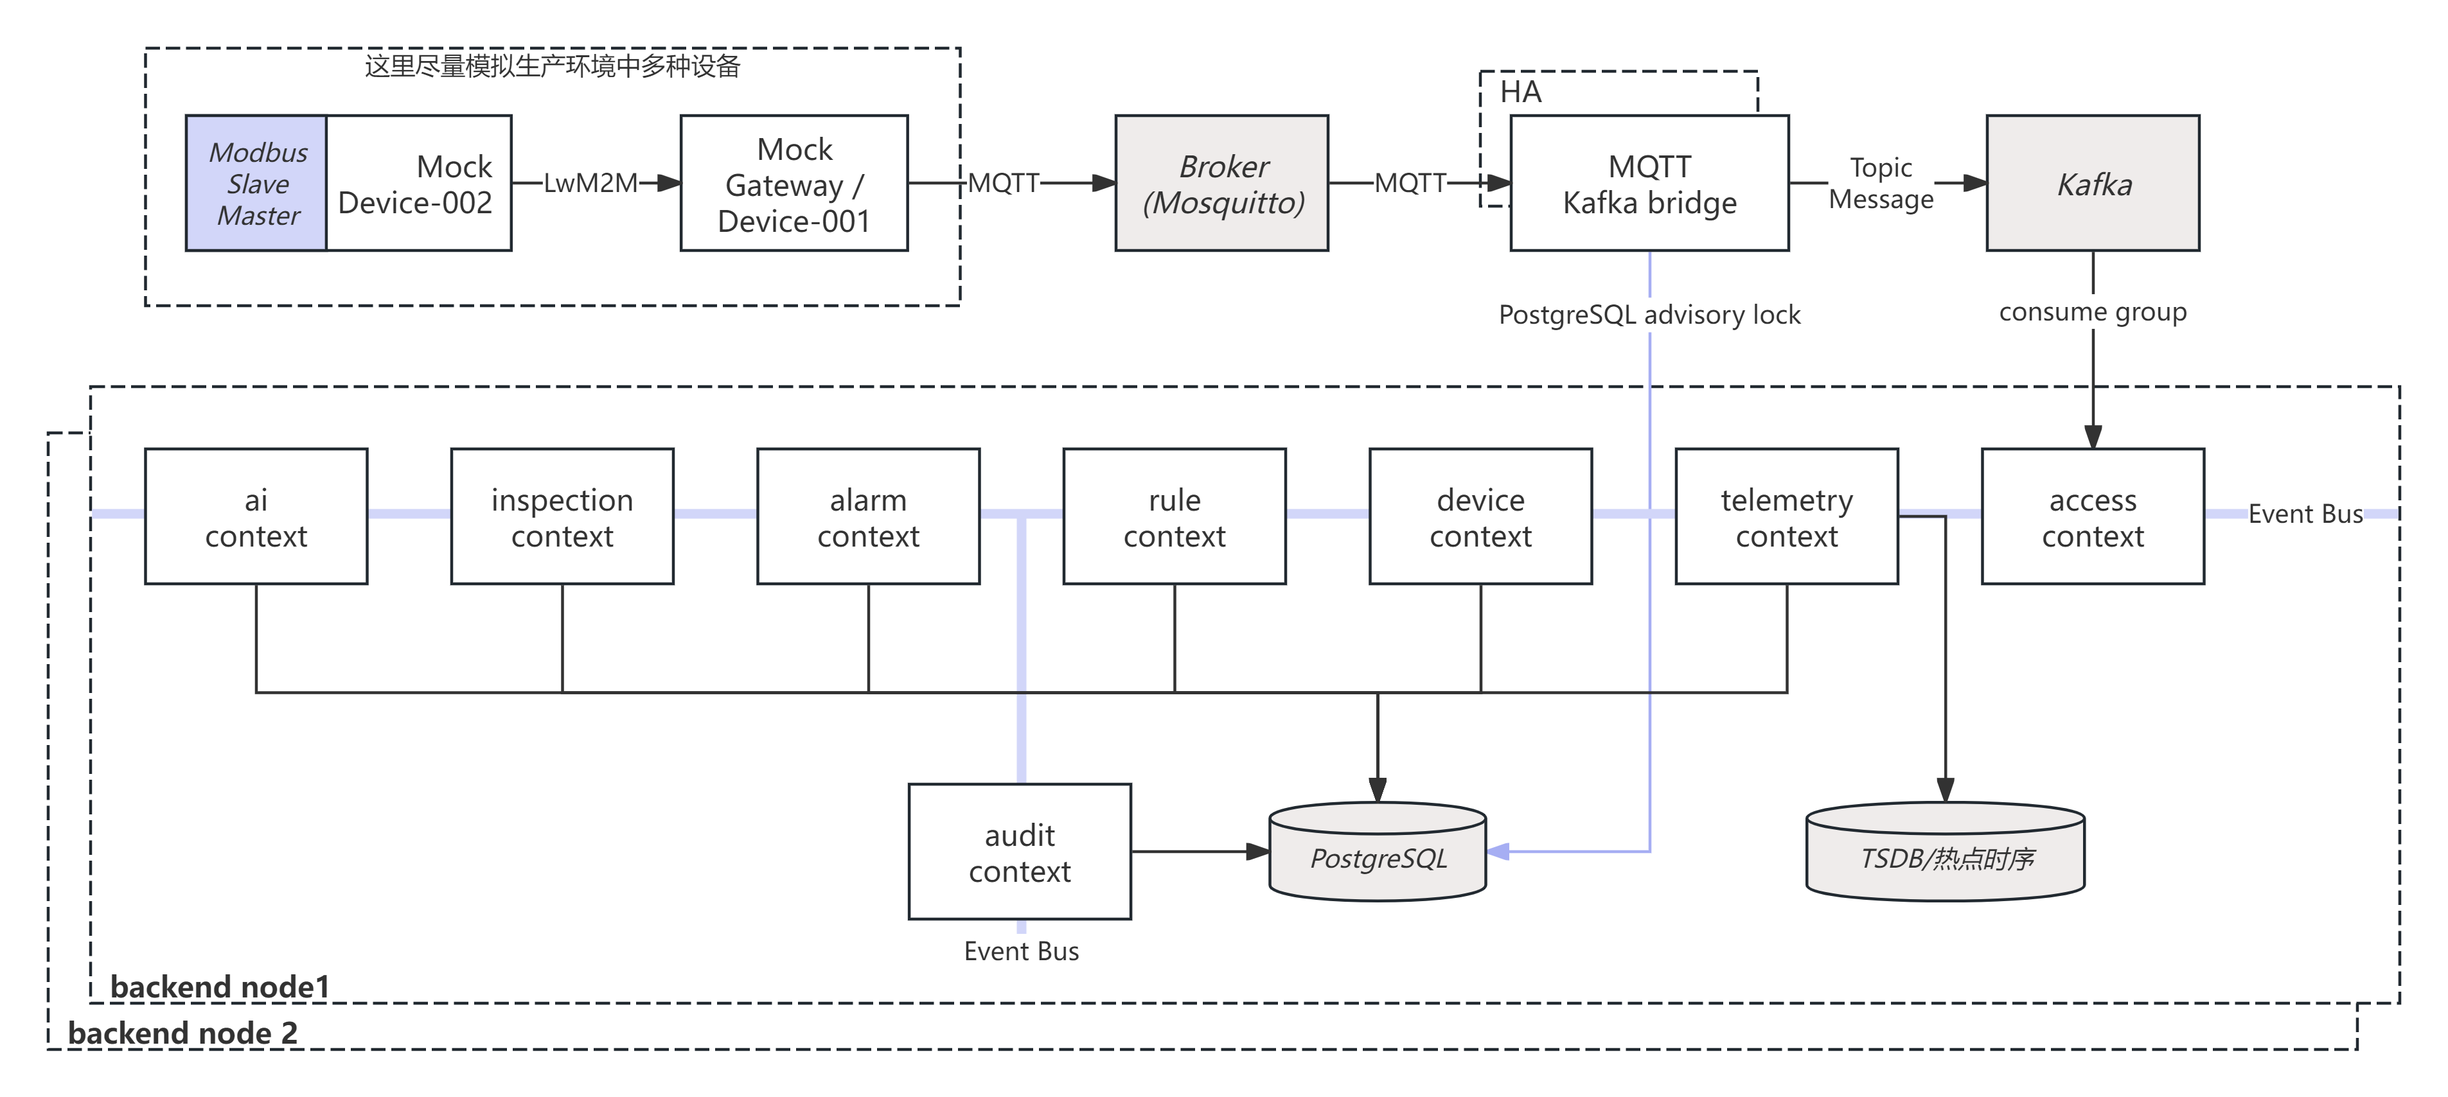
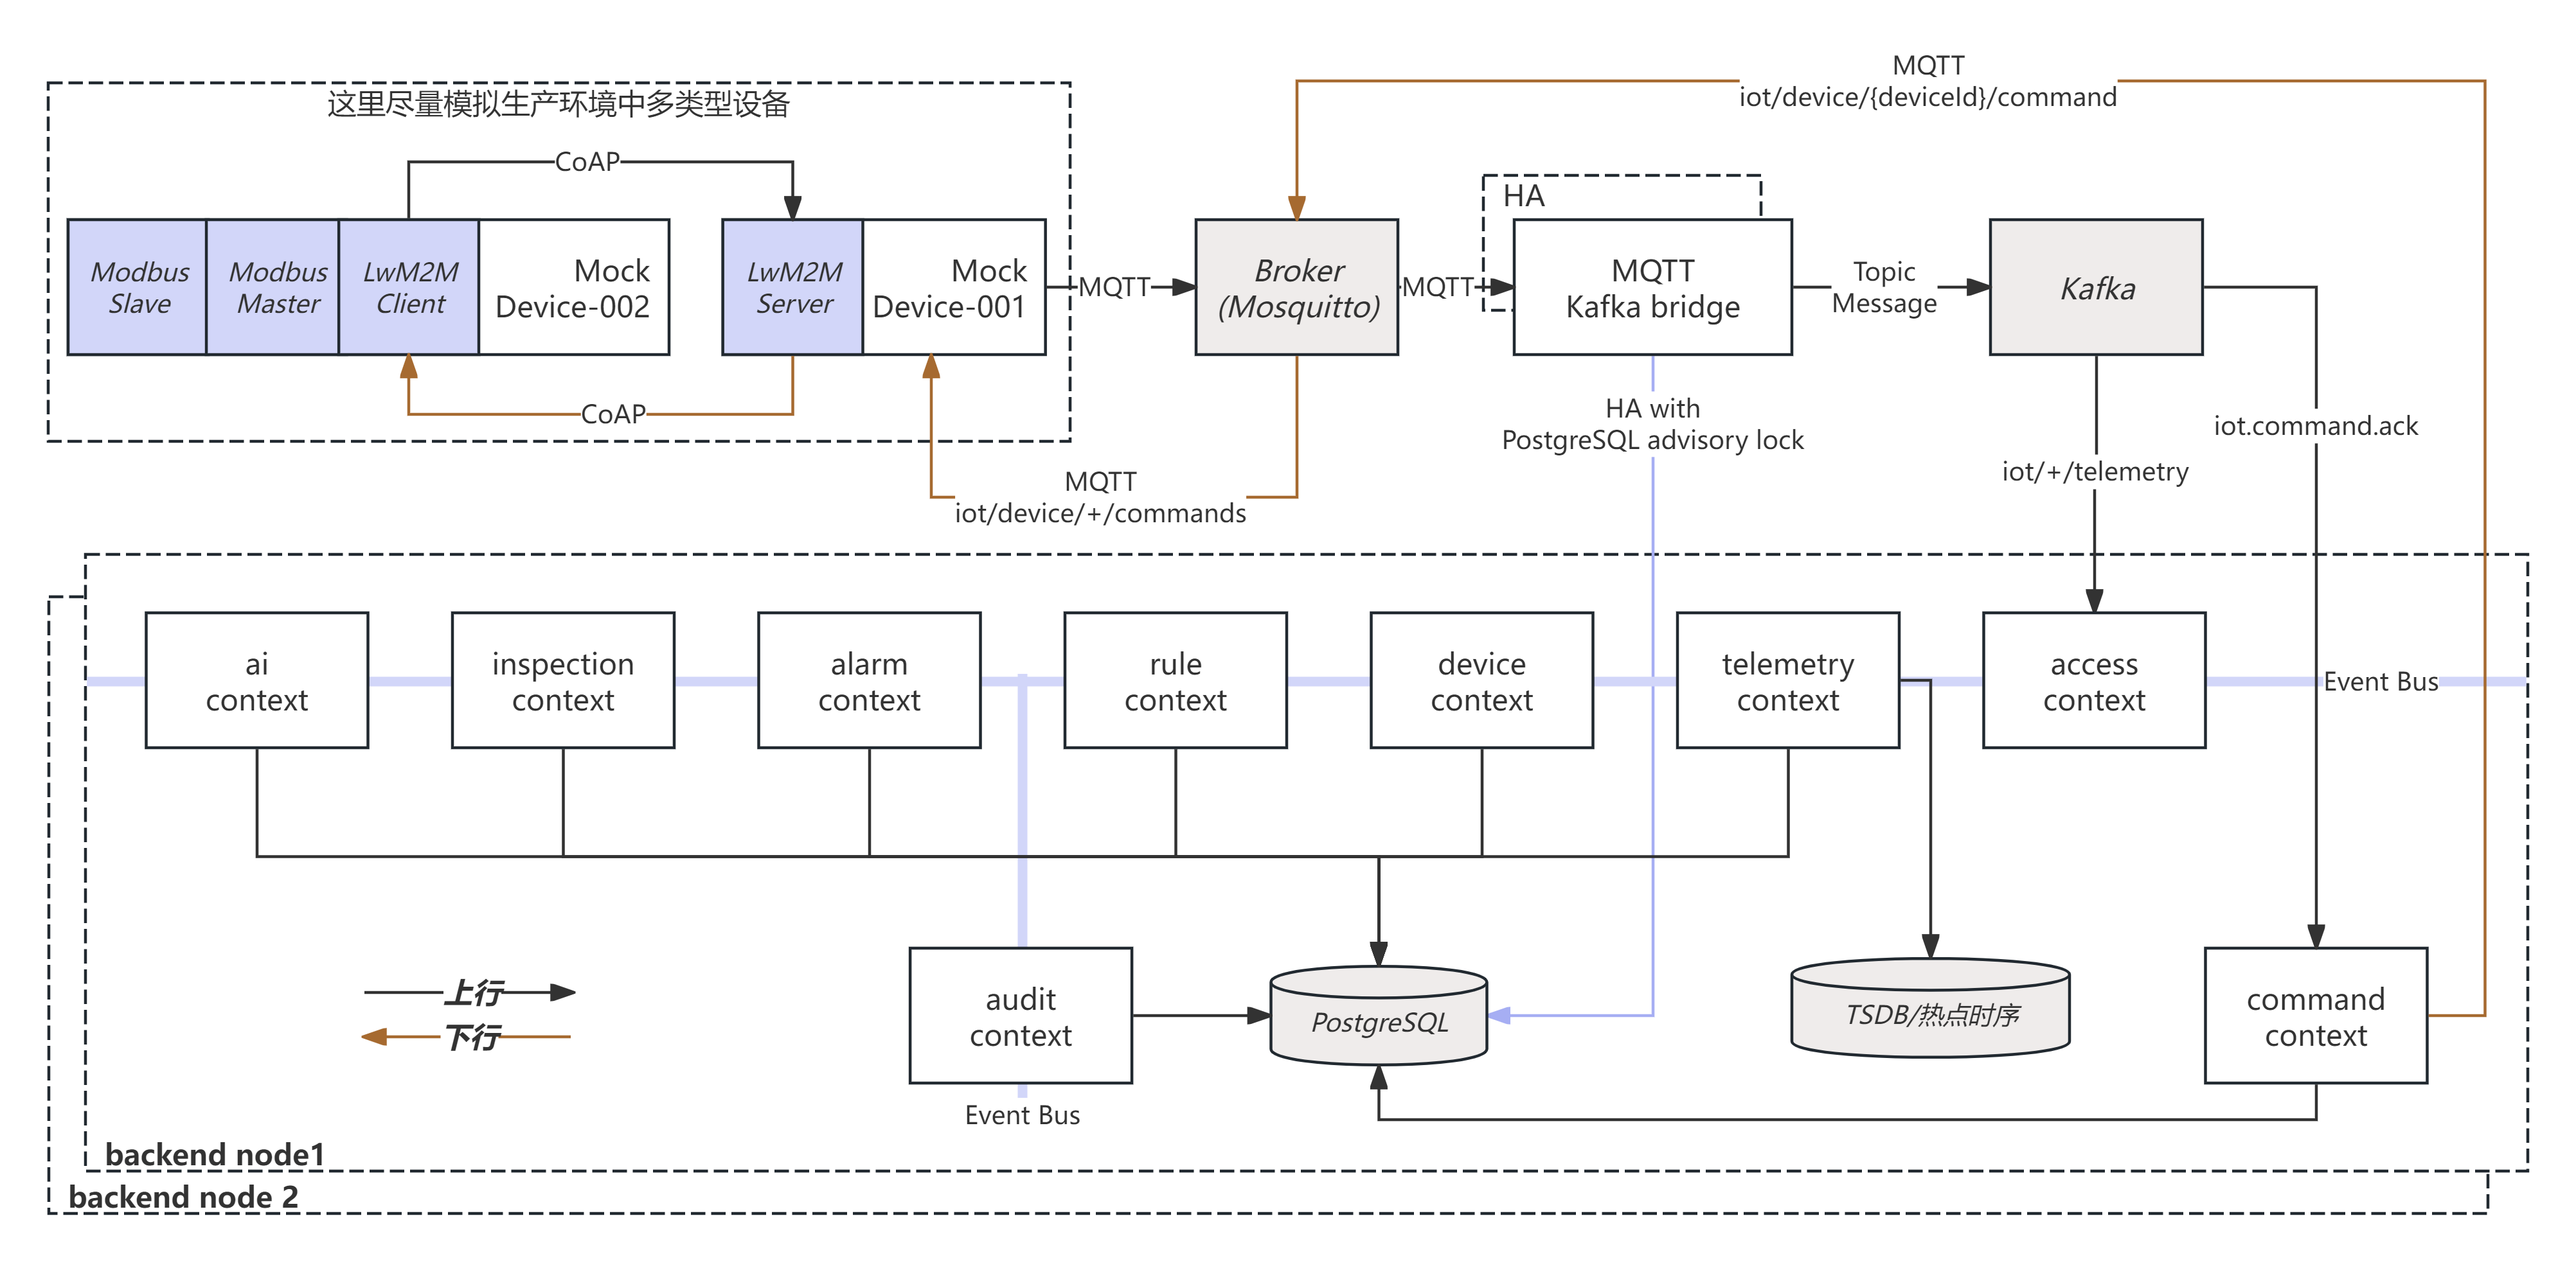
下一步计划

diff --git a/README.md b/README.md
@@ -26,6 +26,7 @@
 ```
 
 ## 当前状态
+
 ![本地运行](./iot-alarm-copilot.png)
 ![本地运行](./mockdevice_mqttbridge_backend.png)
 
@@ -34,3 +35,12 @@
 -   跑通了 mock device --> broker --> (mqtt\_kafka\_bridge) --> kafka --> backend --> postgresql (RDBMS and TSDB)
     
 -   启动参考 [RUN-LOCAL](RUN-LOCAL.md)
+    
+
+## 下一步计划：
+
+跑通下行链路
+
+Command context --> Broker --> Gateway(device-001) --> device-002
+
+其中 device-002用 Linux c来实现，集成lwM2M、Modbus、及演示数据。
